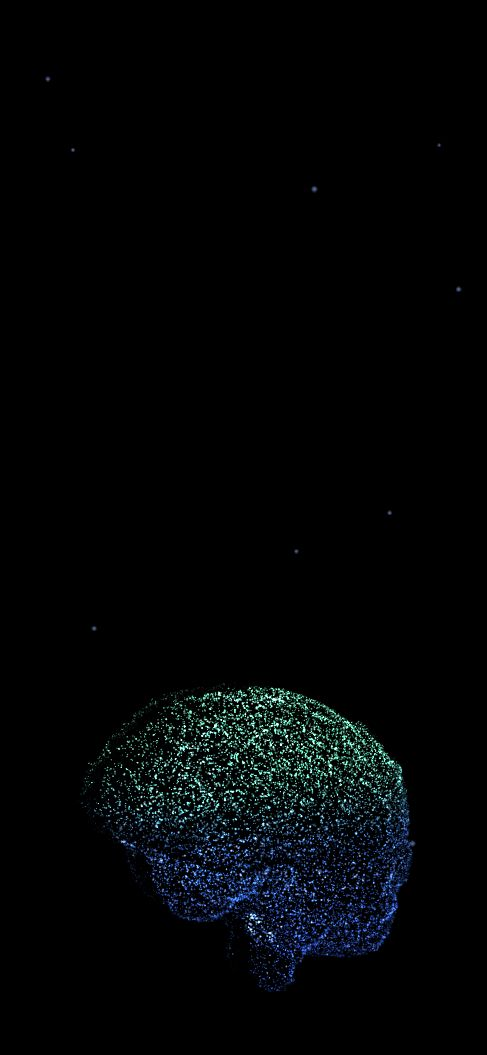
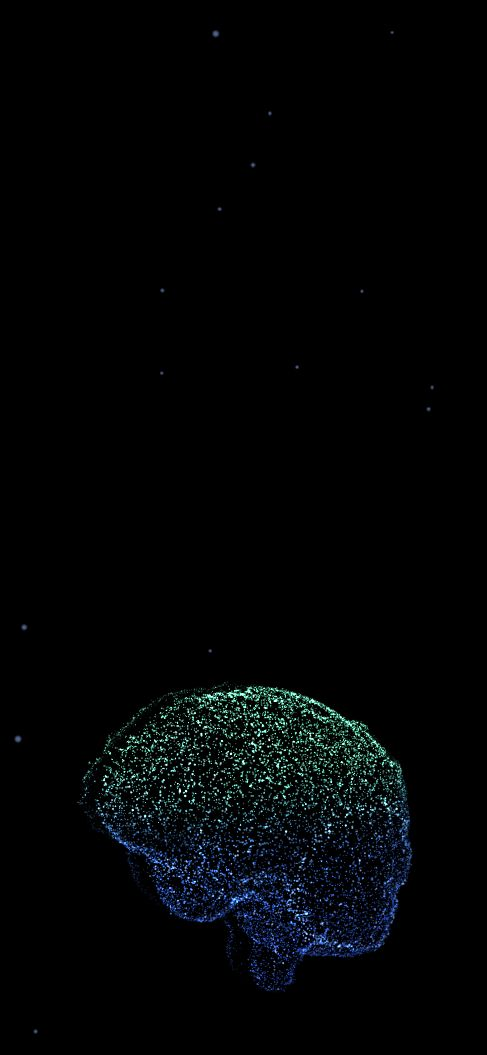
Cerebro: costados con partículas según su superficie real (sin hueco al girar) y sinapsis cuyo destello y onda salen a la vez, más rápidas

Changed region(s): [[0.154, 0.637, 0.8624, 0.9403]]

diff --git a/src/scripts/hero3d.js b/src/scripts/hero3d.js
@@ -173,7 +173,7 @@ export function initHero3D() {
       const gy = (Z[Math.min(H - 1, y + 1) * W + x] - Z[Math.max(0, y - 1) * W + x]) * thick / (2 * S);
       // toda la silueta recibe partículas (también las zonas lisas del dibujo, como el lóbulo frontal): si no, esas zonas quedaban
       // vacías y el cerebro parecía hueco; los surcos siguen marcándose porque reciben más
-      acc += !outside[i] ? (0.42 + 0.58 * Math.pow(D[i], 1.5)) * Math.min(1.5, Math.sqrt(1 + gx * gx + gy * gy)) : 0;
+      acc += !outside[i] ? (0.42 + 0.58 * Math.pow(D[i], 1.5)) * Math.min(5, Math.sqrt(1 + gx * gx + gy * gy)) : 0;   // los costados (muy inclinados) reciben partículas según su superficie real: sin hueco al girar
       cdf[i] = acc;
     }
     for (let n = 0; n < N2; n++) {
@@ -358,8 +358,8 @@ export function initHero3D() {
         for (int i = 0; i < 8; i++) {
           vec4 sp = uSpark[i];
           float on = step(0.0, sp.w), sd = distance(aP2, sp.xyz);
-          synPt += on * exp(-sd*sd / 0.0014) * (1.0 - smoothstep(0.0, 0.3, sp.w)) * 4.5;       // nace en un solo punto muy brillante…
-          float ra = sp.w, sr = (sd - ra * ra * 0.75) / (0.03 + 0.03 * ra);                       // …y la onda sale de él sin pausa, cada vez más rápida
+          synPt += on * exp(-sd*sd / 0.0014) * (1.0 - smoothstep(0.0, 0.18, sp.w)) * 4.5;      // destello en el punto…
+          float ra = sp.w, sr = (sd - sqrt(max(ra, 0.0)) * 0.8) / (0.03 + 0.04 * ra);                       // …y la onda sale de él en el mismo instante, rápida desde el principio
           syn += on * exp(-sr*sr) * (1.0 - ra) * 0.9;
         }
         syn = (syn * (0.3 + 0.7 * step(0.4, fract(aRand * 5.3))) + synPt) * w2;
@@ -559,7 +559,7 @@ export function initHero3D() {
         sp.wait -= dt;
         if (sp.wait <= 0) {
           const n = sparkPoint(sp.chain ? sp.v : null);
-          sp.v.set(P2[n * 3], P2[n * 3 + 1], P2[n * 3 + 2], 0); sp.age = 0; sp.dur = 1.0 + Math.random() * 0.6;
+          sp.v.set(P2[n * 3], P2[n * 3 + 1], P2[n * 3 + 2], 0); sp.age = 0; sp.dur = 0.75 + Math.random() * 0.3;
         }
       } else {
         sp.age += dt / sp.dur;
